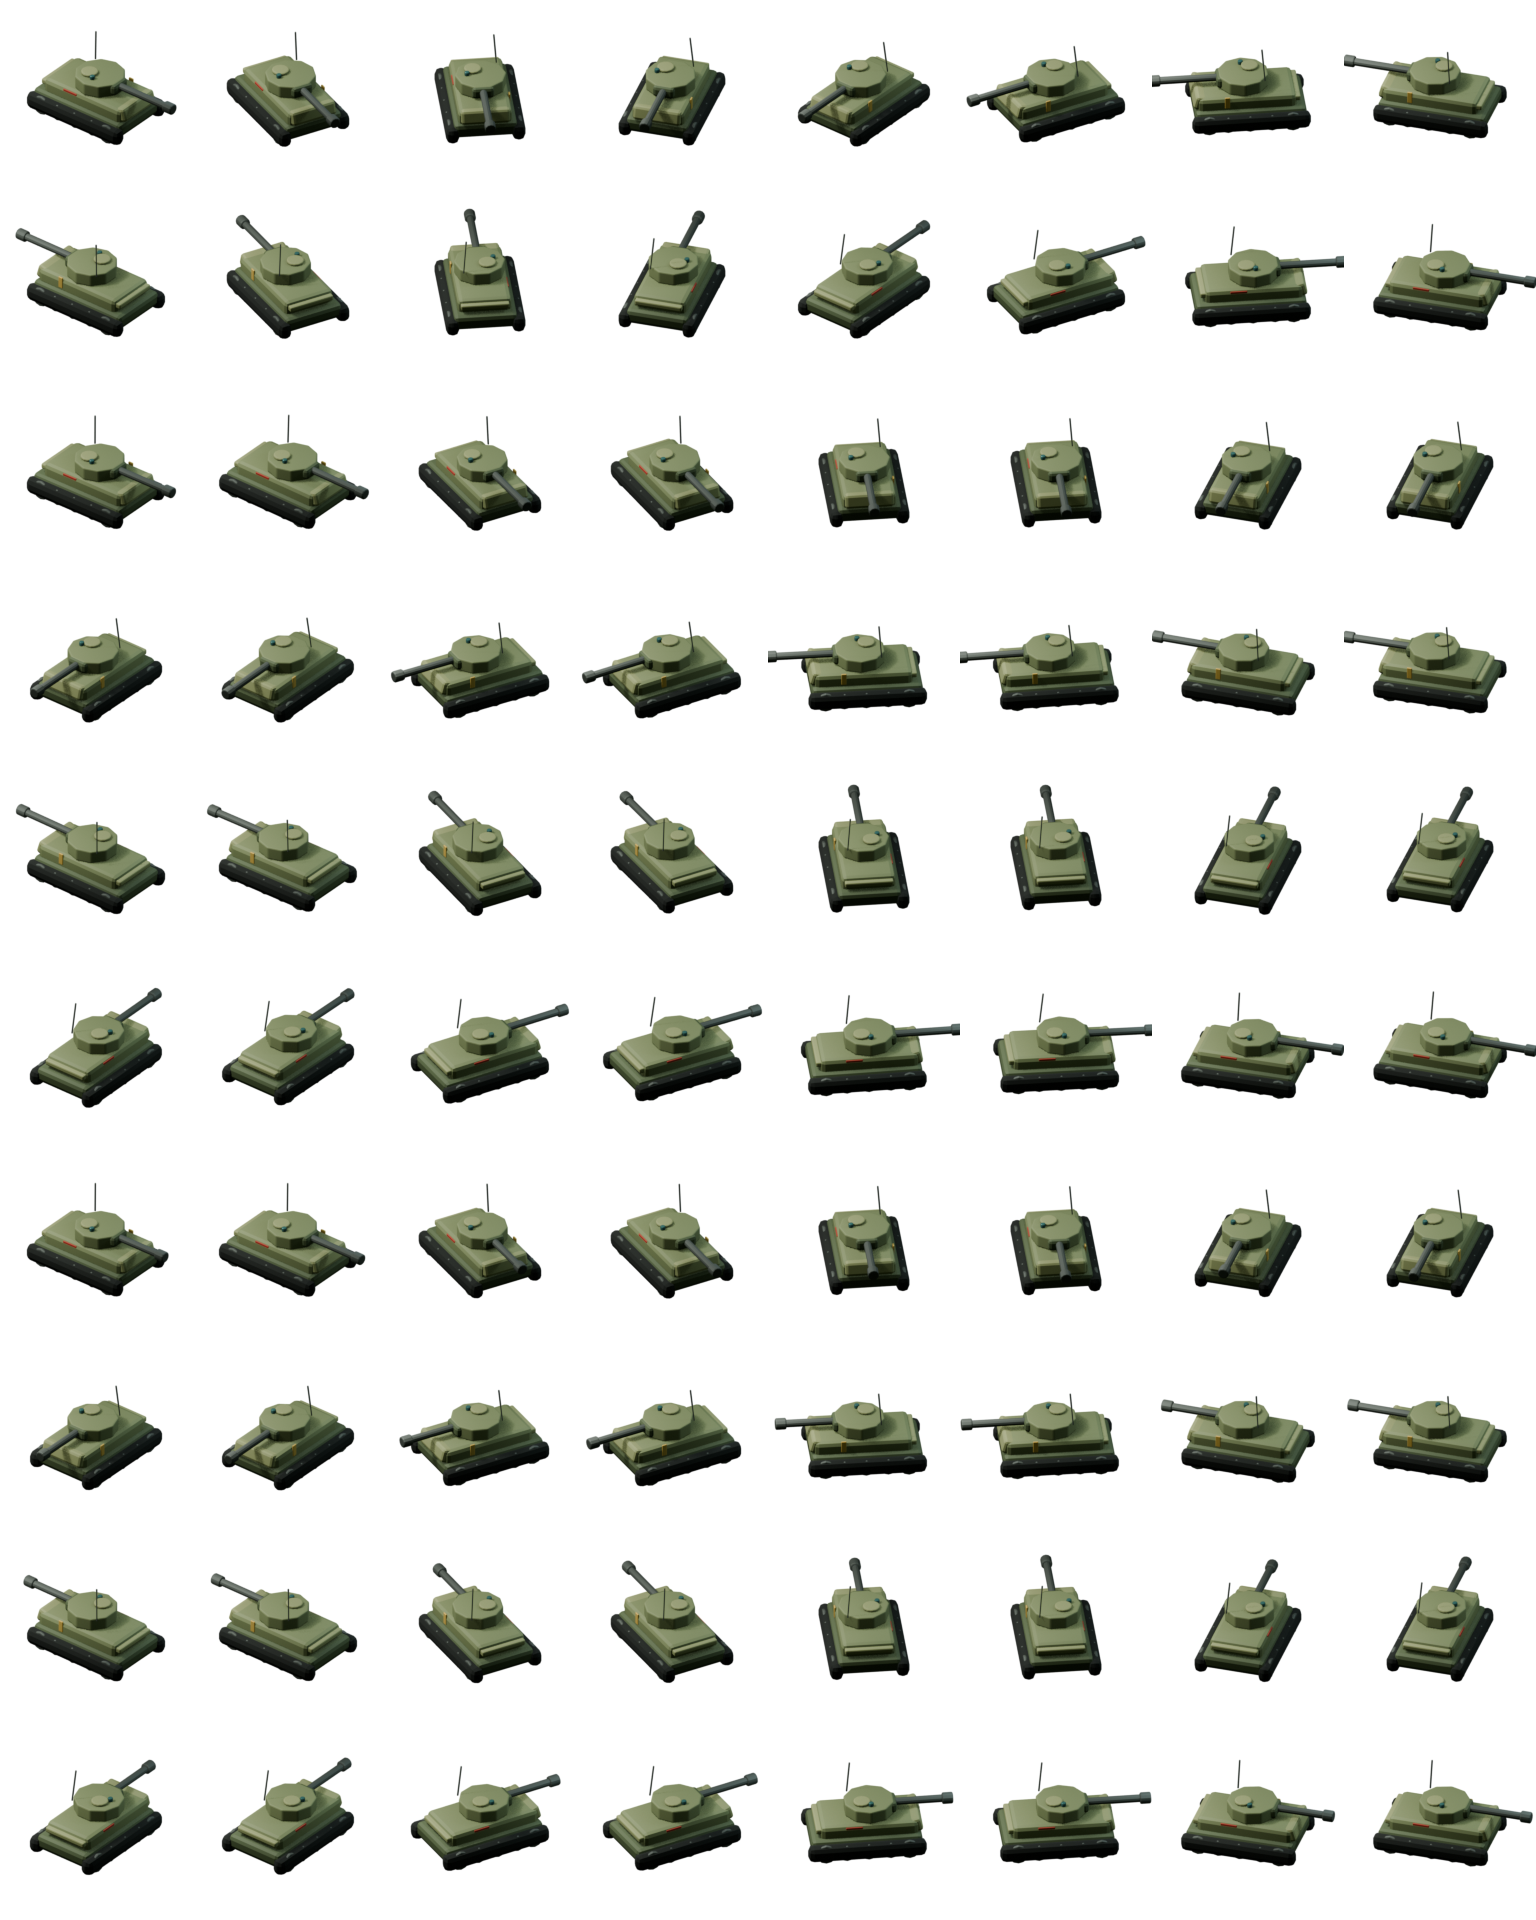
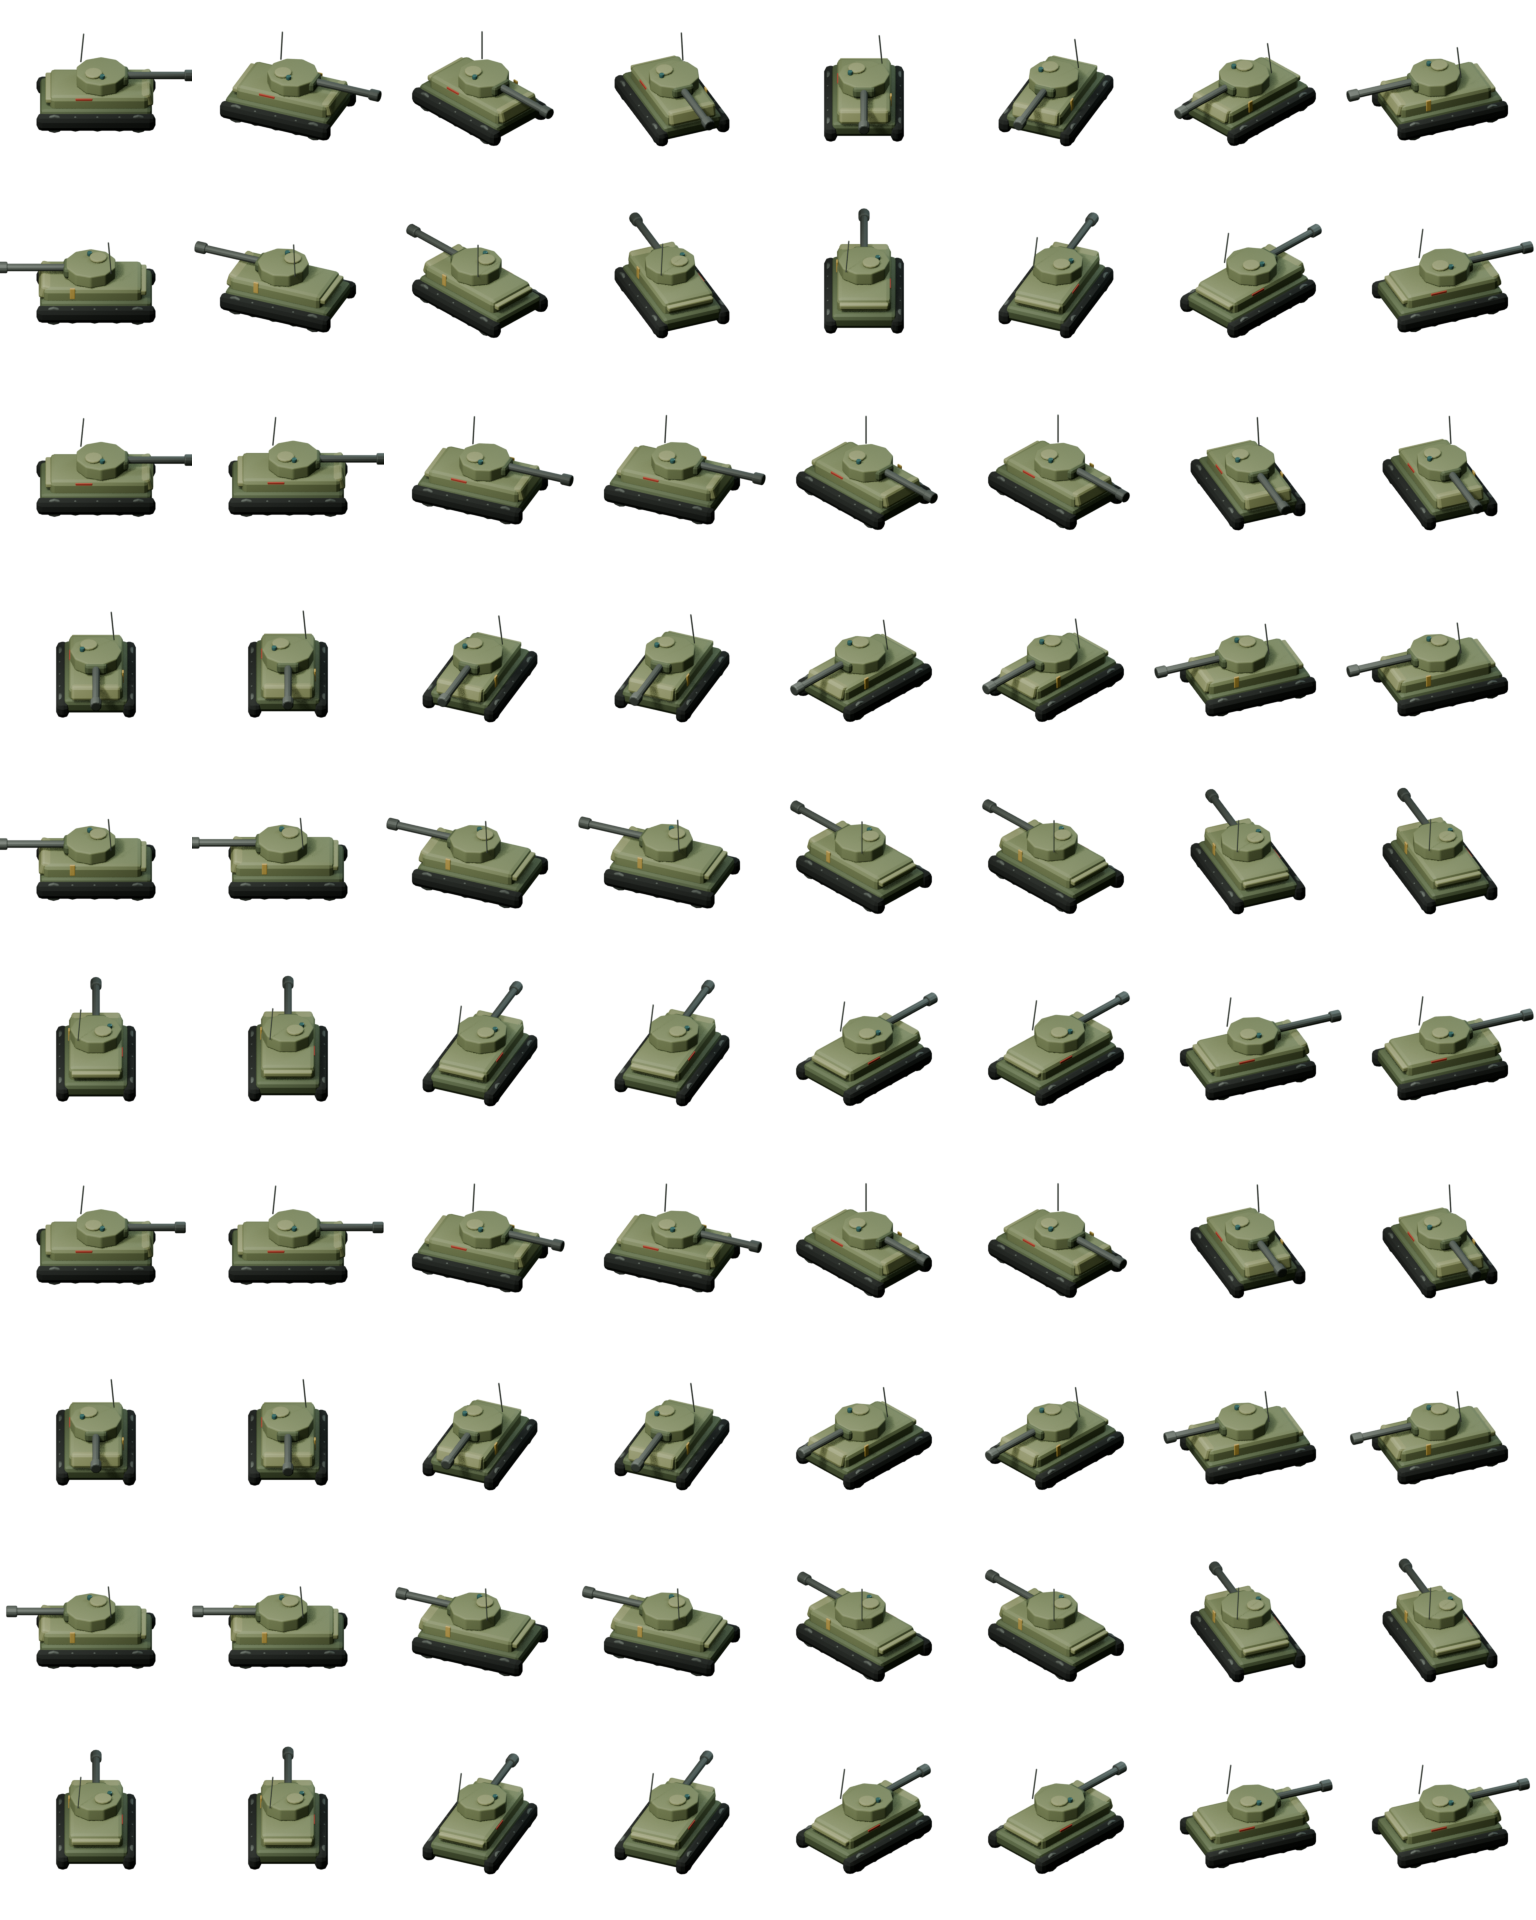
fix(assets): align tank motion with runtime headings

diff --git a/scripts/blender/render-battle-tank.py b/scripts/blender/render-battle-tank.py
@@ -14,6 +14,7 @@ import sys
 from pathlib import Path
 
 import bpy
+from bpy_extras.object_utils import world_to_camera_view
 from mathutils import Vector
 
 
@@ -115,6 +116,9 @@ def build_tank():
 
     root = bpy.data.objects.new("Battle Tank - Iron Pass", None)
     bpy.context.collection.objects.link(root)
+    chassis = bpy.data.objects.new("Suspended chassis", None)
+    bpy.context.collection.objects.link(chassis)
+    parent_to(chassis, root)
 
     main_gun = cylinder(
         "Main gun",
@@ -134,13 +138,11 @@ def build_tank():
         vertices=12,
         rotation=(0, math.pi / 2, 0),
     )
-    parts = [
+    chassis_parts = [
         box("Lower hull", (0, 0, 0.62), (3.9, 2.25, 0.55), olive_dark, 0.16),
         box("Sloped hull", (0.12, 0, 1.05), (3.45, 1.88, 0.62), olive, 0.16),
         box("Glacis", (1.56, 0, 1.08), (0.82, 1.72, 0.52), olive_light, 0.1, (0, -0.27, 0)),
         box("Engine deck", (-1.35, 0, 1.14), (0.82, 1.7, 0.2), olive_light, 0.05),
-        box("Left track", (0, 1.16, 0.48), (4.15, 0.46, 0.62), rubber, 0.2),
-        box("Right track", (0, -1.16, 0.48), (4.15, 0.46, 0.62), rubber, 0.2),
         cylinder("Turret", (0.18, 0, 1.61), 0.9, 0.48, olive, vertices=10),
         box("Turret mantlet", (0.91, 0, 1.62), (0.45, 0.78, 0.44), olive_dark, 0.12),
         main_gun,
@@ -149,6 +151,10 @@ def build_tank():
         box("Faction plate", (-0.42, -0.91, 1.17), (0.6, 0.055, 0.24), red, 0.02),
         box("Unit stripe", (0.82, 0.94, 1.18), (0.18, 0.055, 0.44), brass, 0.02),
         cylinder("Commander's optic", (0.22, -0.48, 1.92), 0.1, 0.16, glass, vertices=8),
+    ]
+    grounded_parts = [
+        box("Left track", (0, 1.16, 0.48), (4.15, 0.46, 0.62), rubber, 0.2),
+        box("Right track", (0, -1.16, 0.48), (4.15, 0.46, 0.62), rubber, 0.2),
     ]
 
     for side in (-1, 1):
@@ -162,7 +168,7 @@ def build_tank():
                 vertices=12,
                 rotation=(math.pi / 2, 0, 0),
             )
-            parts.append(wheel)
+            grounded_parts.append(wheel)
 
     antenna = cylinder(
         "Radio antenna",
@@ -173,11 +179,14 @@ def build_tank():
         vertices=8,
         rotation=(0.08, 0.08, 0),
     )
-    parts.append(antenna)
-    for obj in parts:
+    chassis_parts.append(antenna)
+    for obj in chassis_parts:
+        parent_to(obj, chassis)
+    for obj in grounded_parts:
         parent_to(obj, root)
     return {
         "root": root,
+        "chassis": chassis,
         "main_gun": main_gun,
         "muzzle_brake": muzzle_brake,
     }
@@ -188,18 +197,17 @@ def pose_tank(rig, state: str, step: int) -> None:
     root.location = (0, 0, 0)
     root.rotation_euler.x = 0
     root.rotation_euler.y = 0
+    rig["chassis"].location = (0, 0, 0)
     rig["main_gun"].location.x = 2.05
     rig["muzzle_brake"].location.x = 3.28
 
     if state == "move":
         phase = -1 if step == 0 else 1
-        root.location.z = phase * 0.025
-        root.rotation_euler.y = phase * 0.012
+        rig["chassis"].location.z = phase * 0.025
     elif state == "recoil":
         recoil = 0.34 if step == 0 else 0.14
         rig["main_gun"].location.x -= recoil
         rig["muzzle_brake"].location.x -= recoil
-        root.rotation_euler.y = -recoil * 0.025
 
 
 def look_at(obj, target=(0, 0, 0.8)):
@@ -238,7 +246,7 @@ def configure_scene():
     fill.data.color = (0.54, 0.65, 0.72)
     fill.data.size = 5
 
-    bpy.ops.object.camera_add(location=(7.4, -9.2, 8.6))
+    bpy.ops.object.camera_add(location=(0, -11.8, 8.6))
     camera = bpy.context.object
     camera.name = "RTS orthographic camera"
     camera.data.type = "ORTHO"
@@ -246,6 +254,18 @@ def configure_scene():
     camera.data.lens = 50
     look_at(camera)
     scene.camera = camera
+    bpy.context.view_layer.update()
+    validate_camera_alignment(scene, camera)
+
+
+def validate_camera_alignment(scene, camera) -> None:
+    origin = world_to_camera_view(scene, camera, Vector((0, 0, 0.8)))
+    east = world_to_camera_view(scene, camera, Vector((1, 0, 0.8)))
+    screen_angle = math.atan2(-(east.y - origin.y), east.x - origin.x)
+    if not math.isclose(screen_angle, 0, abs_tol=1e-6):
+        raise RuntimeError(
+            f"Camera projects model east at {math.degrees(screen_angle):.3f} degrees"
+        )
 
 
 def main():

diff --git a/docs/PROJECT_STATUS.md b/docs/PROJECT_STATUS.md
@@ -112,12 +112,20 @@ The first production vehicle slice is implemented:
 - a short crossfade and angular hysteresis keep steering transitions fluid without changing simulation;
 - a missing atlas falls back to the existing procedural painter instead of blocking a match.
 
+Production-art refinement proceeds family by family in this order:
+
+1. finish Battle Tank movement, firing and gameplay-scale acceptance;
+2. replace infantry roles with authored soldier sprites;
+3. replace the representative Iron Pass terrain;
+4. replace the representative industrial structures.
+
 The current tank export covers idle, a restrained two-frame suspension cycle while moving and a
-two-frame barrel recoil triggered by authoritative weapon timing. All 80 poses are authored from the
-same source model and selected only at the presentation boundary. Damage and destruction remain part
-of the production-art gate. The first runtime playtest accepted the model and overall visual
-direction; normal/minimum zoom and performance review remain required before the tank slice is
-accepted as final.
+two-frame barrel recoil triggered by authoritative weapon timing. The suspension isolates the upper
+chassis while tracks and road wheels retain stable ground contact, avoiding apparent lateral drift.
+All 80 poses are authored from the same source model and selected only at the presentation boundary.
+Damage and destruction remain part of the production-art gate. The first runtime playtest accepted
+the model and overall visual direction; normal/minimum zoom and performance review remain required
+before the tank slice is accepted as final.
 
 Public 1v1 work resumes after this visual gate and the core game loop are accepted as a coherent
 game.

diff --git a/docs/BLENDER_BEGINNER_GUIDE.md b/docs/BLENDER_BEGINNER_GUIDE.md
@@ -84,6 +84,7 @@ The model faces positive X before the root object is rotated into the 16 gamepla
 Important objects in the Outliner include:
 
 - `Battle Tank - Iron Pass`: root transform for direction and suspension poses;
+- `Suspended chassis`: upper vehicle group displaced by the movement poses;
 - `Lower hull`, `Sloped hull`, `Glacis`: main silhouette;
 - `Left track`, `Right track` and road wheels: running gear;
 - `Turret`, `Turret mantlet`: weapon platform;
@@ -93,6 +94,10 @@ Important objects in the Outliner include:
 
 The camera is orthographic. Objects therefore keep the same apparent size with distance, matching an
 RTS view and preventing perspective changes between facings.
+
+Its azimuth is aligned with the model axes: model positive X projects to screen east. The render
+script validates this contract before exporting, because even a small camera orbit would make a
+vehicle appear to move sideways relative to its runtime heading.
 
 Materials use a restrained military-industrial palette. At 192 × 192 pixels, value separation and
 silhouette matter more than fine surface detail. Always judge an edit at gameplay size, not only in a
@@ -115,7 +120,8 @@ simulation determinism.
 
 The pose values live in `pose_tank()`:
 
-- movement changes the root Z position and Y rotation by a small amount;
+- movement displaces only `Suspended chassis` vertically by a small amount;
+- tracks and road wheels remain fixed to the root so ground contact never moves;
 - recoil translates the gun and muzzle brake backward along the tank's local X axis;
 - every pose resets all animated transforms before applying its own offsets.
 

diff --git a/docs/ART_DIRECTION.md b/docs/ART_DIRECTION.md
@@ -169,6 +169,21 @@ manually repainting individual direction frames is not, because it would break c
 consistency and reproducibility. The practical Blender introduction and asset acceptance workflow
 live in [BLENDER_BEGINNER_GUIDE.md](BLENDER_BEGINNER_GUIDE.md).
 
+### Authored movement rules
+
+Lessons from the first vehicle movement pass apply to every production sprite family:
+
+- align authoring axes with runtime screen directions and validate the projection numerically;
+- keep the ground-contact subassembly registered across every locomotion frame;
+- animate internal mass relative to that contact instead of rotating or translating the whole root;
+- select locomotion from presentation data without adding cosmetic state to the simulation;
+- keep facing selection independent from animation-step selection;
+- review direction changes, straight-line movement and minimum zoom in the running game;
+- prefer two stable readable poses over extra frames that introduce silhouette drift.
+
+For vehicles, tracks and wheels define ground contact while the chassis carries suspension motion.
+For infantry, planted feet define ground contact while pelvis, torso and equipment carry weight.
+
 ## Iron Pass acceptance gate
 
 The vertical slice passes only when:
